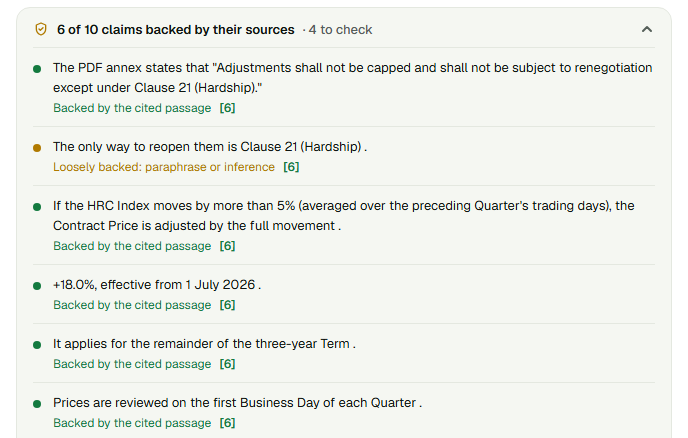
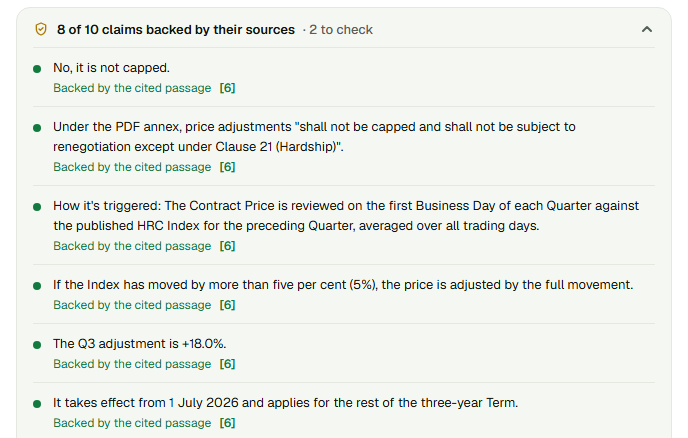
Claim check: citations on the next line join their sentence; one citation covers earlier sentences in the same paragraph; capitalised claim text; fresh README screenshot

diff --git a/frontend/src/pages/AskPage.tsx b/frontend/src/pages/AskPage.tsx
@@ -145,7 +145,7 @@ function Claims({ claims, onCite }: { claims: Claim[]; onCite: (n: number) => vo
                             <li key={i} className="flex gap-3 border-t border-rule py-2.5 text-[13px] leading-5">
                                 <span className={clsx('mt-[7px] h-2 w-2 shrink-0 rounded-full', st.dot)} title={st.label} />
                                 <div className="flex min-w-0 flex-col gap-0.5">
-                                    <span className="text-ink">{c.text}</span>
+                                    <span className="text-ink first-letter:uppercase">{c.text}</span>
                                     <span className={clsx('flex flex-wrap items-center gap-x-2 text-xs', st.text)}>
                                         {st.label}{c.missing.length ? `: ${c.missing.join(', ')} not in the source` : ''}
                                         {c.markers.map((n) => (

diff --git a/backend/src/orchestrator/claims.py b/backend/src/orchestrator/claims.py
@@ -39,43 +39,59 @@ def _context_by_number(context: str) -> Dict[int, str]:
     return out
 
 
-def _sentences(text: str) -> List[str]:
+def _sentences(text: str) -> List[tuple]:
+    """(sentence, paragraph index). A citation after the stop, even on the next line, joins its sentence."""
     text = re.sub(r"^\s*[-*•]\s+", "", text, flags=re.M)        # list bullets
     text = re.sub(r"[*_#`]", "", text)                           # markdown emphasis
-    text = re.sub(r"([.!?])((?:\s*\[\d{1,3}\])+)", r"\2\1", text)   # "...5%. [6]" -> "...5% [6]." (marker after the stop)
-    parts = re.split(r"(?<=[.!?])\s+(?=[A-Z\"'(\[])|\n+", text)
-    return [p.strip() for p in parts if len(p.strip()) > 12]
+    text = re.sub(r"([.!?])((?:\s*\[\d{1,3}\])+)",
+                  lambda m: " " + " ".join(re.findall(r"\[\d{1,3}\]", m.group(2))) + m.group(1),
+                  text)                                          # "...5%.\n [6]" -> "...5% [6]."
+    out = []
+    for k, para in enumerate(re.split(r"\n+", text)):
+        for p in re.split(r"(?<=[.!?])\s+(?=[A-Z\"'(\[])", para):
+            if len(p.strip()) > 12:
+                out.append((p.strip(), k))
+    return out
 
 
 def _numbers(s: str) -> List[str]:
     return [n.replace(",", "") for n in _NUM.findall(s)]
 
 
+def _judge(body: str, markers: List[int], sources: Dict[int, str]) -> dict:
+    cited = " ".join(sources[m] for m in markers)
+    cited_nums = set(_numbers(cited))
+    missing = [n for n in _numbers(body) if n not in cited_nums]
+    words = {w for w in _WORD.findall(body.lower()) if w not in _STOP}
+    found = sum(1 for w in words if w in cited or (len(w) >= 5 and w[:4] in cited))
+    overlap = found / len(words) if words else 1.0
+    if missing or overlap < 0.25:
+        status = "unsupported"
+    elif overlap >= 0.55:
+        status = "supported"
+    else:
+        status = "partial"
+    return {"text": body, "markers": markers, "status": status, "missing": missing, "overlap": round(overlap, 2)}
+
+
 def check_claims(text: str, evidence: List[Evidence], context: str = "") -> List[dict]:
     full = _context_by_number(context)
     sources = {i + 1: (full.get(i + 1) or ev.snippet).lower() for i, ev in enumerate(evidence)}
-    claims: List[dict] = []
-    for sent in _sentences(text):
+    parsed = []
+    for sent, para in _sentences(text):
         markers = sorted({int(n) for n in _CITE.findall(sent) if int(n) in sources})
         body = re.sub(r"\s+([.,;:!?])", r"\1", _CITE.sub("", sent)).strip()
         body = re.sub(r"^[A-Z][\w ]{0,30}:\s+", "", body)          # "Trigger: ..." list labels are not claims
-        nums = [n for n in _numbers(body) if len(n) > 0]
+        parsed.append((body, markers, para))
+    claims: List[dict] = []
+    for i, (body, markers, para) in enumerate(parsed):
         if not markers:
-            if nums:
+            # One citation often covers the sentences before it in the same paragraph: borrow it.
+            borrowed = next((m for b, m, p in parsed[i + 1:] if p == para and m), None)
+            if borrowed:
+                claims.append(_judge(body, borrowed, sources))
+            elif _numbers(body):
                 claims.append({"text": body, "markers": [], "status": "uncited", "missing": []})
             continue
-        cited = " ".join(sources[m] for m in markers)
-        cited_nums = set(_numbers(cited))
-        missing = [n for n in nums if n not in cited_nums]
-        words = {w for w in _WORD.findall(body.lower()) if w not in _STOP}
-        found = sum(1 for w in words if w in cited or (len(w) >= 5 and w[:4] in cited))
-        overlap = found / len(words) if words else 1.0
-        if missing or overlap < 0.25:
-            status = "unsupported"
-        elif overlap >= 0.55:
-            status = "supported"
-        else:
-            status = "partial"
-        claims.append({"text": body, "markers": markers, "status": status, "missing": missing,
-                       "overlap": round(overlap, 2)})
+        claims.append(_judge(body, markers, sources))
     return claims[:60]

diff --git a/backend/tests/unit/test_claims.py b/backend/tests/unit/test_claims.py
@@ -39,3 +39,11 @@ def test_marker_after_full_stop_belongs_to_that_sentence():
     text = "The Contract Price is adjusted by the full movement. [1] Margins recover within two quarters. [2]"
     claims = check_claims(text, EV, CTX)
     assert [c["markers"] for c in claims] == [[1], [2]] and all(c["status"] == "supported" for c in claims)
+
+
+def test_marker_on_next_line_and_shared_marker():
+    text = ("- Trigger: The Contract Price is adjusted by the full movement.\n  [1]\n"
+            "- The Index moved more than 5%. The Q3 adjustment equals 18.0% [1].\n"
+            "Prices rose 12% last year.")
+    assert [(c["status"], c["markers"]) for c in check_claims(text, EV, CTX)] == [
+        ("supported", [1]), ("supported", [1]), ("supported", [1]), ("uncited", [])]
